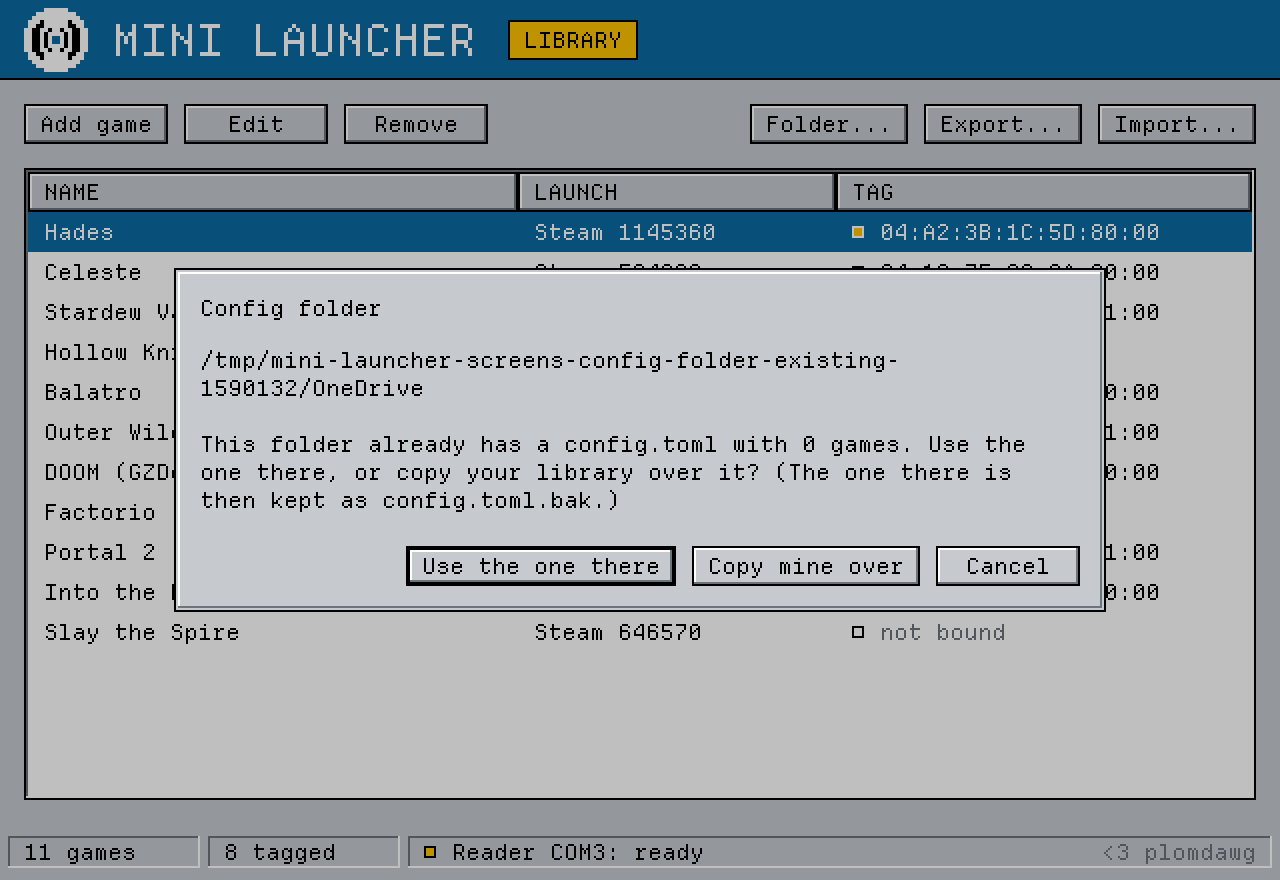
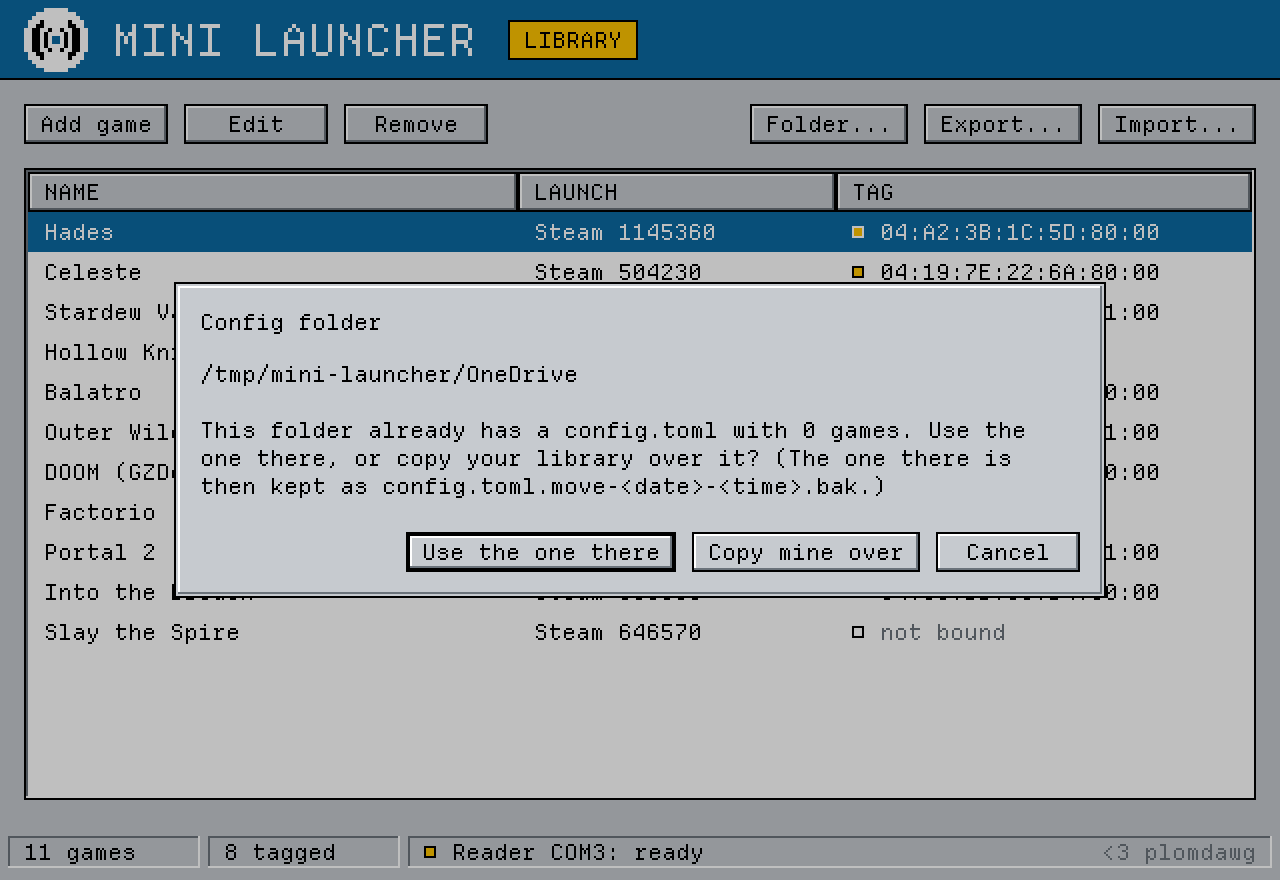
Review fixes: keep theirs on copy-over, move away from an unavailable folder, CI close race
- Copy mine over: the target's config.toml is first copied to
  config.toml.move-<date>-<time>.bak (named in the Done dialog), so later
  saves can't overwrite it; test saves once after the move.
- Move / Reset with nothing to copy (folder unavailable or no config.toml)
  just switches; the default folder is created if missing. "Copy mine
  over" is disabled then. Test: unavailable -> empty default.
- Screenshots use a fixed folder, so the folder dialogs render the same
  every run.
- CI "Settings window open/close memory": wait for a new window handle per
  cycle, post WM_CLOSE to that exact window (checking the result), and
  poll the log for each close with retries instead of fixed sleeps.

Changed region(s): [[0.125, 0.4909, 0.875, 0.7057], [0.125, 0.3068, 0.875, 0.3682], [0.1562, 0.3989, 0.6875, 0.4602]]

diff --git a/app/ui/src/transfer.rs b/app/ui/src/transfer.rs
@@ -80,20 +80,30 @@ impl ImportPlan {
         now: SystemTime,
     ) -> Result<Option<String>, String> {
         let file = location.writable_file().map_err(|e| e.to_string())?;
-        let backup = if file.exists() {
-            let (y, m, d, s) = civil(now);
-            let (h, min, sec) = (s / 3600, s / 60 % 60, s % 60);
-            let name =
-                format!("{CONFIG_FILE}.import-{y:04}{m:02}{d:02}-{h:02}{min:02}{sec:02}.bak");
-            std::fs::copy(&file, file.with_file_name(&name))
-                .map_err(|e| format!("cannot back up {}: {e}", file.display()))?;
-            Some(name)
-        } else {
-            None
-        };
+        let backup = backup(&file, "import", now)?;
         ConfigDocument::import_into(&self.from, location).map_err(|e| chain(&e))?;
         Ok(backup)
     }
+}
+
+/// Copies `file` (if it exists) to `config.toml.<kind>-<date>-<time>.bak`
+/// next to it, a name later saves never replace. Returns that name.
+fn backup(file: &Path, kind: &str, now: SystemTime) -> Result<Option<String>, String> {
+    if !file.exists() {
+        return Ok(None);
+    }
+    let (y, m, d, s) = civil(now);
+    let (h, min, sec) = (s / 3600, s / 60 % 60, s % 60);
+    let name = format!("{CONFIG_FILE}.{kind}-{y:04}{m:02}{d:02}-{h:02}{min:02}{sec:02}.bak");
+    std::fs::copy(file, file.with_file_name(&name))
+        .map_err(|e| format!("cannot back up {}: {e}", file.display()))?;
+    Ok(Some(name))
+}
+
+/// The current `config.toml`, if the folder is available and it exists
+/// (so there is a library to take along).
+pub fn mine(current: Option<&ConfigLocation>) -> Option<PathBuf> {
+    current?.config_file().ok().filter(|f| f.is_file())
 }
 
 /// What is already in a folder the config is moving to.
@@ -124,10 +134,10 @@ impl Move {
         current: Option<&ConfigLocation>,
         dir: &Path,
     ) -> Result<Option<Move>, String> {
-        if !dir.is_absolute() || !dir.is_dir() {
+        let to_default = same(dir, default_dir);
+        if !dir.is_absolute() || !(dir.is_dir() || to_default) {
             return Err(format!("\"{}\" is not a folder.", dir.display()));
         }
-        let to_default = same(dir, default_dir);
         let here = match current {
             Some(ConfigLocation::Default(d) | ConfigLocation::Override(d)) => same(dir, d),
             _ => false,
@@ -157,30 +167,35 @@ impl Move {
         self.existing != Existing::Nothing
     }
 
-    /// Switches to the new folder: with `copy_mine`, the current config is
-    /// first saved there (an existing one is kept as `config.toml.bak`).
-    /// Then `location.toml` is written (or removed for the default folder).
+    /// Switches to the new folder: with `copy_mine`, the current config
+    /// (see [`mine`]) is first saved there, after the one there (if any) is
+    /// copied to `config.toml.move-<date>-<time>.bak`, whose name is
+    /// returned. Then `location.toml` is written (or removed for the
+    /// default folder, which is created if missing).
     pub fn apply(
         &self,
         default_dir: &Path,
         current: Option<&ConfigLocation>,
         copy_mine: bool,
-    ) -> Result<(), String> {
+        now: SystemTime,
+    ) -> Result<Option<String>, String> {
+        let target = self.dir.join(CONFIG_FILE);
+        let mut kept = None;
         if copy_mine {
-            let file = current
-                .ok_or("this system has no config folder")?
-                .config_file()
-                .map_err(|e| format!("Your config can't be copied: {e}"))?;
-            if file.exists() {
-                let doc = ConfigDocument::load_or_empty(&file).map_err(|e| chain(&e))?;
-                doc.save(&self.dir.join(CONFIG_FILE))
-                    .map_err(|e| chain(&e))?;
-            }
+            let file = mine(current).ok_or("you have no config to copy")?;
+            let doc = ConfigDocument::load_or_empty(&file).map_err(|e| chain(&e))?;
+            kept = backup(&target, "move", now)?;
+            doc.save(&target).map_err(|e| chain(&e))?;
         } else if let Existing::Broken(e) = &self.existing {
             return Err(format!("The config there can't be loaded: {e}"));
         }
+        if self.to_default {
+            std::fs::create_dir_all(default_dir)
+                .map_err(|e| format!("cannot create {}: {e}", default_dir.display()))?;
+        }
         let pointer = (!self.to_default).then_some(self.dir.as_path());
-        set_pointer(default_dir, pointer).map_err(|e| chain(&e))
+        set_pointer(default_dir, pointer).map_err(|e| chain(&e))?;
+        Ok(kept)
     }
 }
 
@@ -264,6 +279,29 @@ mod tests {
         assert!(plan.apply(&gone, SystemTime::now()).is_err());
     }
 
+    fn t() -> SystemTime {
+        SystemTime::UNIX_EPOCH + Duration::from_secs(1_795_437_296)
+    }
+
+    #[test]
+    fn reset_from_an_unavailable_folder_to_an_empty_default() {
+        let (default, synced) = (temp("unavail"), temp("unavail-synced"));
+        set_pointer(&default, Some(&synced)).unwrap();
+        std::fs::remove_dir_all(&synced).unwrap();
+        let gone = ConfigLocation::resolve(&default);
+        assert!(!gone.is_available() && mine(Some(&gone)).is_none());
+        let mv = Move::plan(&default, Some(&gone), &default)
+            .unwrap()
+            .unwrap();
+        assert!(!mv.needs_choice() && mv.to_default);
+        assert!(mv.apply(&default, Some(&gone), true, t()).is_err());
+        assert_eq!(mv.apply(&default, Some(&gone), false, t()), Ok(None));
+        assert_eq!(
+            ConfigLocation::resolve(&default),
+            ConfigLocation::Default(default)
+        );
+    }
+
     #[test]
     fn move_copies_mine_or_uses_theirs_and_resets() {
         let (default, synced) = (temp("mv-default"), temp("mv-synced"));
@@ -275,7 +313,7 @@ mod tests {
         // Empty target: mine is copied there.
         let mv = Move::plan(&default, Some(&home), &synced).unwrap().unwrap();
         assert!(!mv.needs_choice() && !mv.to_default);
-        mv.apply(&default, Some(&home), true).unwrap();
+        mv.apply(&default, Some(&home), true, t()).unwrap();
         let there = ConfigLocation::resolve(&default);
         assert_eq!(there, ConfigLocation::Override(synced.clone()));
         assert_eq!(
@@ -292,22 +330,30 @@ mod tests {
             (back.to_default, back.existing.clone()),
             (true, Existing::Config(0))
         );
-        back.apply(&default, Some(&there), false).unwrap();
+        back.apply(&default, Some(&there), false, t()).unwrap();
         assert_eq!(ConfigLocation::resolve(&default), home);
         assert_eq!(
             std::fs::read_to_string(default.join(CONFIG_FILE)).unwrap(),
             ""
         );
 
-        // Copy mine over an existing one: theirs is kept as .bak.
+        // Copy mine over an existing one: theirs is kept under a dated name
+        // that later saves don't replace.
         let mv = Move::plan(&default, Some(&home), &synced).unwrap().unwrap();
         assert_eq!(mv.existing, Existing::Config(2));
-        mv.apply(&default, Some(&home), true).unwrap();
+        let kept = mv.apply(&default, Some(&home), true, t()).unwrap().unwrap();
+        assert_eq!(kept, "config.toml.move-20261123-123456.bak");
+        let there = ConfigLocation::resolve(&default);
+        ConfigDocument::load_or_empty(&synced.join(CONFIG_FILE))
+            .unwrap()
+            .save_to(&there)
+            .unwrap();
         assert_eq!(
             std::fs::read_to_string(synced.join(CONFIG_FILE)).unwrap(),
             ""
         );
-        assert_eq!(
+        assert_eq!(std::fs::read_to_string(synced.join(&kept)).unwrap(), TWO);
+        assert_ne!(
             std::fs::read_to_string(synced.join("config.toml.bak")).unwrap(),
             TWO
         );
@@ -319,7 +365,7 @@ mod tests {
             .unwrap()
             .unwrap();
         assert!(matches!(mv.existing, Existing::Broken(_)));
-        assert!(mv.apply(&default, Some(&there), false).is_err());
+        assert!(mv.apply(&default, Some(&there), false, t()).is_err());
         assert_eq!(ConfigLocation::resolve(&default), there);
     }
 }

diff --git a/app/ui/src/settings/backup.rs b/app/ui/src/settings/backup.rs
@@ -10,7 +10,7 @@ use mini_launcher_core::config::location::ConfigLocation;
 use super::Settings;
 use crate::library::Library;
 use crate::theme::{self, FACE, INK, PAPER, SHADE, U};
-use crate::transfer::{export, export_name, Existing, ImportPlan, Move};
+use crate::transfer::{export, export_name, mine, Existing, ImportPlan, Move};
 
 /// A native file dialog the window should open.
 #[derive(Debug, Clone, PartialEq, Eq)]
@@ -109,8 +109,12 @@ impl Settings {
         match Move::plan(&default, current.as_ref(), &dir) {
             Ok(None) => self.transfer.problem = Some("The config is already there.".into()),
             Ok(Some(mv)) if mv.needs_choice() => self.open(Dialog::Existing(mv)),
-            // Nothing there yet: take the library along.
-            Ok(Some(mv)) => self.finish_move(&mv, true),
+            // Nothing there yet: take the library along, if there is one
+            // (an unavailable folder has none: just switch).
+            Ok(Some(mv)) => {
+                let copy = mine(current.as_ref()).is_some();
+                self.finish_move(&mv, copy);
+            }
             Err(e) => self.transfer.problem = Some(e),
         }
     }
@@ -120,11 +124,14 @@ impl Settings {
             return;
         };
         let current = self.host.location();
-        match mv.apply(&default, current.as_ref(), copy_mine) {
-            Ok(()) => {
+        match mv.apply(&default, current.as_ref(), copy_mine, SystemTime::now()) {
+            Ok(kept) => {
                 self.host.moved();
                 self.reload();
-                let text = format!("Mini Launcher now uses {}.", mv.dir.display());
+                let mut text = format!("Mini Launcher now uses {}.", mv.dir.display());
+                if let Some(kept) = kept {
+                    text.push_str(&format!(" The config that was there is saved as {kept}."));
+                }
                 self.open(Dialog::Done("Config folder", text));
             }
             Err(e) => {
@@ -239,10 +246,11 @@ pub(super) fn dialogs(ui: &mut Ui, s: &mut Settings) {
             };
             let text = format!(
                 "{}\n\nThis folder already has {there}. Use the one there, or copy your \
-                 library over it? (The one there is then kept as config.toml.bak.)",
+                 library over it? (The one there is then kept as \
+                 config.toml.move-<date>-<time>.bak.)",
                 mv.dir.display()
             );
-            let mine = s.host.location().is_some_and(|l| l.is_available());
+            let mine = mine(s.host.location().as_ref()).is_some();
             let theirs = !matches!(mv.existing, Existing::Broken(_));
             let buttons = [
                 ("Use the one there", theirs),

diff --git a/app/ui/tests/screens.rs b/app/ui/tests/screens.rs
@@ -171,10 +171,21 @@ fn host(name: &str) -> Arc<TestHost> {
 }
 
 fn host_with_loop(name: &str) -> (Arc<TestHost>, Loop) {
-    let dir = std::env::temp_dir().join(format!(
+    host_at(std::env::temp_dir().join(format!(
         "mini-launcher-screens-{name}-{}",
         std::process::id()
-    ));
+    )))
+}
+
+/// The screenshots' host: a fixed folder, so the paths the config folder
+/// dialogs show are the same on every run.
+fn design_host() -> Arc<TestHost> {
+    let (host, run_loop) = host_at(std::env::temp_dir().join("mini-launcher").join("config"));
+    *host.server.lock().unwrap() = Some(run_loop.server);
+    host
+}
+
+fn host_at(dir: PathBuf) -> (Arc<TestHost>, Loop) {
     let _ = std::fs::remove_dir_all(&dir);
     std::fs::create_dir_all(&dir).unwrap();
     let mut text = String::from("# My carts\n");
@@ -583,7 +594,7 @@ fn design_screenshots() {
         }),
         ("config-folder", |s| s.open_folder()),
         ("config-folder-existing", |s| {
-            let synced = config_dir(s).join("OneDrive");
+            let synced = config_dir(s).parent().unwrap().join("OneDrive");
             std::fs::create_dir_all(&synced).unwrap();
             std::fs::write(synced.join("config.toml"), "").unwrap();
             s.move_to(synced);
@@ -591,7 +602,7 @@ fn design_screenshots() {
     ];
     for (name, setup) in shots {
         for scale in [1.0, 2.0] {
-            let mut h = harness(host(name), scale);
+            let mut h = harness(design_host(), scale);
             setup(h.state_mut());
             h.run();
             let image = h.render().expect("render");

diff --git a/app/cli/src/tray/app.rs b/app/cli/src/tray/app.rs
@@ -339,6 +339,8 @@ impl Host for TrayHost {
     fn moved(&self) {
         // The window shows the new folder at once; the worker follows on
         // its next poll (the same switch as when the folder comes back).
+        // Resolving runs on the window thread and can briefly stall it
+        // while a network share times out (see docs/config.md).
         lock(&self.state).0 = Config::location();
         self.relocate.store(true, Ordering::Relaxed);
     }

diff --git a/docs/config.md b/docs/config.md
@@ -54,7 +54,9 @@ The easiest way is the settings window: **Folder...** shows where the config liv
 folder, a custom folder, or why the custom folder is unavailable). **Move to folder...** picks a
 folder and writes `location.toml` for you; if that folder already has a `config.toml` you choose
 between using the one there and copying yours over it (the one there is then kept as
-`config.toml.bak`), otherwise your library is copied there. **Reset to default** removes
+`config.toml.move-<date>-<time>.bak`, which later saves don't replace); otherwise your library
+is copied there. Moving away from an unavailable folder (e.g. **Reset to default** while the
+synced drive is missing) just switches folders, since there is nothing to copy. **Reset to default** removes
 `location.toml` the same way. The tray switches to the new folder at once.
 
 To set it up by hand instead, create `location.toml` next to where
